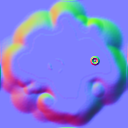
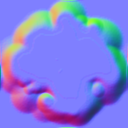
added ambilight, added colored map

Changed region(s): [[0.6875, 0.4375, 0.7812, 0.5312], [0.375, 0.5, 0.4062, 0.5312]]

diff --git a/src/World/components/terrain.js b/src/World/components/terrain.js
@@ -1,31 +1,25 @@
-import { PlaneGeometry, TextureLoader, RepeatWrapping, MeshPhongMaterial, MeshStandardMaterial, Mesh, Vector3 } from 'three';
+import { PlaneGeometry, TextureLoader, RepeatWrapping, MeshPhongMaterial, MeshToonMaterial, MeshStandardMaterial, Mesh, Vector3 } from 'three';
 import { Water } from '../../../lib/three/examples/jsm/objects/Water.js';
 import {Sky} from '../../../lib/three/examples/jsm/objects/Sky.js';
 
 function createGround() {
-    const geometry = new PlaneGeometry(300, 300, 1024, 1024);
+    const geometry = new PlaneGeometry(400, 400, 1024, 1024);
     const loader = new TextureLoader();
-    const height = loader.load("../../assets/heightmap.png");
+    const height = loader.load("../../assets/heightmap2.png");
     const normal = loader.load("../../assets/NormalMap.png");
-    const texture = loader.load("../../assets/textures/Sand 1.jpg");
+    const texture = loader.load("../../assets/color2.png");
     texture.wrapS = RepeatWrapping;
     texture.wrapT = RepeatWrapping;
-    const bump = loader.load("../../assets/textures/sand-bump-map.jpg");
-    bump.wrapS = RepeatWrapping;
-    bump.wrapT = RepeatWrapping;
 
-    const material = new MeshPhongMaterial({
-        color: 'gray',
+    const material = new MeshStandardMaterial({
         map: texture,
-        bumpMap: bump,
         normalMap: normal,
         displacementMap: height,
-        displacementScale: 10,
-        flatShading: true
+        displacementScale: 10
     });
     const mesh = new Mesh(geometry, material);
     mesh.rotation.x = -Math.PI/2;
-    mesh.position.y = -0.5;
+    mesh.position.y = -0.6;
     return mesh;
 }
 
@@ -42,9 +36,8 @@ function createOcean() {
     water.sunDirection = new Vector3();
     water.sunColor = 0xffffff;
     water.waterColor = 0x001e0f;
-    water.distortionScale = 3.7;
     water.rotation.x = -Math.PI/2;
-    water.position.y = 0.5;
+    water.position.y = 0;
     return water;
 }
 

diff --git a/src/World/World.js b/src/World/World.js
@@ -1,6 +1,6 @@
 import { createPerspectiveCamera } from './components/camera.js';
 import { createScene } from './components/scene.js';
-import { createSpotLight } from './components/light.js';
+import { createSpotLight, createAmbientLight } from './components/light.js';
 import { createGround, createOcean, createSky, createSun } from './components/terrain.js';
 import { Controller } from './components/Controller.js';
 import { loadPalm } from './components/palm.js';
@@ -41,7 +41,7 @@ class World {
         this.#camera = createPerspectiveCamera(new Vector3(0, 1000, 0));
         this.#scene = createScene();
         this.#renderer = createRenderer();
-        this.#light = createSpotLight();
+        this.#light = createAmbientLight();
         this.#controller = new Controller(this.#camera);
         const pmremGenerator = new PMREMGenerator(this.#renderer);
         

diff --git a/src/World/components/light.js b/src/World/components/light.js
@@ -1,9 +1,14 @@
-import { SpotLight } from 'three';
+import { SpotLight, AmbientLight } from 'three';
 
 function createSpotLight() {
-    const light = new SpotLight(0xffffff, 3);
-    light.position.set(0, 100, 0);
+    const light = new SpotLight(0xffffff, 1);
+    light.position.set(100, 100, 0);
     return light;
 }
 
-export { createSpotLight };
+function createAmbientLight() {
+    const light = new SpotLight(0xffffff, 10);
+    return light;
+}
+
+export { createSpotLight, createAmbientLight };

diff --git a/src/World/components/palm.js b/src/World/components/palm.js
@@ -6,7 +6,7 @@ async function loadPalm(){
     const data = await loader.loadAsync('/assets/models/palm-tree-test.gltf');
     const palm = setUpModel(data);
     palm.position.x = 10;
-    palm.position.y = 7;
+    palm.position.y = 5;
     palm.position.z = 0;
     palm.rotation.y = Math.PI/2;
     return palm;
